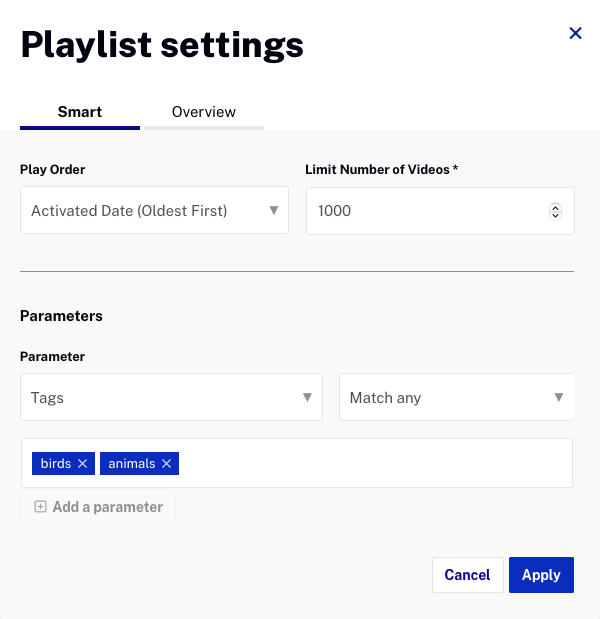
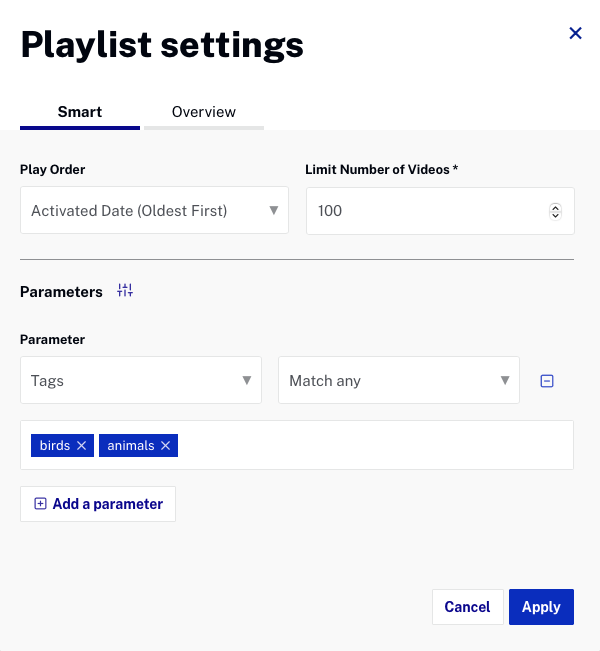
updates

diff --git a/_site/media/creating-and-managing-playlists2.html b/_site/media/creating-and-managing-playlists2.html
@@ -1308,27 +1308,34 @@ function doGTranslate(lang_pair) {if(lang_pair.value)lang_pair=lang_pair.value;i
       </li>
       <li><strong>Limit Number of Videos</strong> - Enter the maximum number of videos that should be in the playlist (default is 100)</li>
     </ul>
-      <h3>Smart playlist parameters</h3>
-      <p>The <strong>Parameters</strong> section is used to define which videos will appear in the playlist. The following parameters are supported.</p>
+    <h3>Smart playlist parameters</h3>
+    <p>The <strong>Parameters</strong> section is used to define which videos will appear in the playlist. The following parameters are supported.</p>
+    <ul>
+      <li><strong>Tags</strong> - Video tags are used to define the videos that will appear in the playlist. Enter one or more tags (separated by commas). The <strong>Tags</strong> dropdown provides these options:
         <ul>
-          <li><strong>Tags</strong> - Video tags are used to define the videos that will appear in the playlist. Enter one or more tags (separated by commas). The <strong>Tags</strong> dropdown provides these options:
-            <ul>
-              <li><strong>Match any</strong> - Include videos that have one or more of the tags listed</li>
-              <li><strong>Match all</strong> - Require that all the videos in the playlist have all the tags that are listed</li>
-            </ul>
-          </li>
-            <li><strong>Name</strong> - The video name is used to define the videos that will appear in the playlist</li>
-            <li><strong>Description</strong> - The video short and long description are used to define the videos that will appear in the playlist</li>
-            <li><strong>Custom field </strong> - The video custom fields are used to define the videos that will appear in the playlist.
- Select a custom field from the dropdown list.            </li>
+          <li><strong>Match any</strong> - Include videos that have one or more of the tags listed</li>
+          <li><strong>Match all</strong> - Require that all the videos in the playlist have all the tags that are listed</li>
+        </ul>
+      </li>
+      <li><strong>Name</strong> - The video name is used to define the videos that will appear in the playlist. Enter a name to search for.</li>
+      <li><strong>Description</strong> - The video short and long description are used to define the videos that will appear in the playlist. Enter a description to search for.</li>
+      <li><strong>Custom field </strong> - The video custom fields are used to define the videos that will appear in the playlist.
+        Select a custom field from the dropdown list and then select/enter a custom field value.</li>
     </ul>
-      <p>The <strong>Name</strong>, <strong>Description</strong> and <strong>Custom field</strong> options support these options:</p>
-      <ul>
-                <li><strong>Text to include </strong>- Include videos that have the name in the short or long description fields</li>
-                <li><strong>Text to exclude </strong>- Exclude videos that have the name in the short or long description fields</li>
+    <p>The <strong>Name</strong>, <strong>Description</strong> and <strong>Custom field</strong> options support these options:</p>
+    <ul>
+      <li><strong>Text to include </strong>- Include videos that have the name in the short or long description fields</li>
+      <li><strong>Text to exclude </strong>- Exclude videos that have the name in the short or long description fields</li>
     </ul>
-            <figure class="bcls-figure"><img class="bcls-image--no-border" alt="" src="/assets/images/media/node15152-new-smart-playlist1.png" /></figure>
-            <p>Click <strong>Apply</strong> to save the changes. </p>
+    <figure class="bcls-figure"><img class="bcls-image--no-border" alt="" src="/assets/images/media/node15152-new-smart-playlist1.png" /></figure>
+    <h3>Using multiple parameters</h3>
+    <p>Multiple parameters can be entered by clicking <strong>Add a parameter</strong> and then entering an additional parameter. By default, multiple parameters will be evaluated using an <strong>OR</strong> operation. To change how multiple parameters are evaluated, click the selector icon (<img class="bcls-image--no-border" alt="" src="/assets/images/media/node15152-icon-parameters.png" />) next to the <strong>Parameters</strong> heading.</p>
+    <p>
+      <figure class="bcls-figure"><img class="bcls-image--no-border" alt="" src="/assets/images/media/node15152-combine-parameters.png" /></figure>
+    </p>
+    <p>In the following example, all videos that are tagged <strong>birds</strong> or <strong>animals</strong> or have a <strong>Subject</strong> custom field value of <strong>Animals</strong> will be added to the playlist.</p>
+    <figure class="bcls-figure"><img class="bcls-image--no-border" alt="" src="/assets/images/media/node15152-parameter-example.png" /></figure>
+    <p>Click <strong>Apply</strong> to save the changes. </p>
   </section>
   <section class="bcls-section">
     <h2 id="addmanual">Adding videos to a manual playlist</h2>

diff --git a/media/creating-and-managing-playlists2.html b/media/creating-and-managing-playlists2.html
@@ -99,27 +99,34 @@ layout: staging
       </li>
       <li><strong>Limit Number of Videos</strong> - Enter the maximum number of videos that should be in the playlist (default is 100)</li>
     </ul>
-      <h3>Smart playlist parameters</h3>
-      <p>The <strong>Parameters</strong> section is used to define which videos will appear in the playlist. The following parameters are supported.</p>
+    <h3>Smart playlist parameters</h3>
+    <p>The <strong>Parameters</strong> section is used to define which videos will appear in the playlist. The following parameters are supported.</p>
+    <ul>
+      <li><strong>Tags</strong> - Video tags are used to define the videos that will appear in the playlist. Enter one or more tags (separated by commas). The <strong>Tags</strong> dropdown provides these options:
         <ul>
-          <li><strong>Tags</strong> - Video tags are used to define the videos that will appear in the playlist. Enter one or more tags (separated by commas). The <strong>Tags</strong> dropdown provides these options:
-            <ul>
-              <li><strong>Match any</strong> - Include videos that have one or more of the tags listed</li>
-              <li><strong>Match all</strong> - Require that all the videos in the playlist have all the tags that are listed</li>
-            </ul>
-          </li>
-            <li><strong>Name</strong> - The video name is used to define the videos that will appear in the playlist</li>
-            <li><strong>Description</strong> - The video short and long description are used to define the videos that will appear in the playlist</li>
-            <li><strong>Custom field </strong> - The video custom fields are used to define the videos that will appear in the playlist.
- Select a custom field from the dropdown list.            </li>
+          <li><strong>Match any</strong> - Include videos that have one or more of the tags listed</li>
+          <li><strong>Match all</strong> - Require that all the videos in the playlist have all the tags that are listed</li>
+        </ul>
+      </li>
+      <li><strong>Name</strong> - The video name is used to define the videos that will appear in the playlist. Enter a name to search for.</li>
+      <li><strong>Description</strong> - The video short and long description are used to define the videos that will appear in the playlist. Enter a description to search for.</li>
+      <li><strong>Custom field </strong> - The video custom fields are used to define the videos that will appear in the playlist.
+        Select a custom field from the dropdown list and then select/enter a custom field value.</li>
     </ul>
-      <p>The <strong>Name</strong>, <strong>Description</strong> and <strong>Custom field</strong> options support these options:</p>
-      <ul>
-                <li><strong>Text to include </strong>- Include videos that have the name in the short or long description fields</li>
-                <li><strong>Text to exclude </strong>- Exclude videos that have the name in the short or long description fields</li>
+    <p>The <strong>Name</strong>, <strong>Description</strong> and <strong>Custom field</strong> options support these options:</p>
+    <ul>
+      <li><strong>Text to include </strong>- Include videos that have the name in the short or long description fields</li>
+      <li><strong>Text to exclude </strong>- Exclude videos that have the name in the short or long description fields</li>
     </ul>
-            <figure class="bcls-figure"><img class="bcls-image--no-border" alt="" src="/assets/images/media/node15152-new-smart-playlist1.png" /></figure>
-            <p>Click <strong>Apply</strong> to save the changes. </p>
+    <figure class="bcls-figure"><img class="bcls-image--no-border" alt="" src="/assets/images/media/node15152-new-smart-playlist1.png" /></figure>
+    <h3>Using multiple parameters</h3>
+    <p>Multiple parameters can be entered by clicking <strong>Add a parameter</strong> and then entering an additional parameter. By default, multiple parameters will be evaluated using an <strong>OR</strong> operation. To change how multiple parameters are evaluated, click the selector icon (<img class="bcls-image--no-border" alt="" src="/assets/images/media/node15152-icon-parameters.png" />) next to the <strong>Parameters</strong> heading.</p>
+    <p>
+      <figure class="bcls-figure"><img class="bcls-image--no-border" alt="" src="/assets/images/media/node15152-combine-parameters.png" /></figure>
+    </p>
+    <p>In the following example, all videos that are tagged <strong>birds</strong> or <strong>animals</strong> or have a <strong>Subject</strong> custom field value of <strong>Animals</strong> will be added to the playlist.</p>
+    <figure class="bcls-figure"><img class="bcls-image--no-border" alt="" src="/assets/images/media/node15152-parameter-example.png" /></figure>
+    <p>Click <strong>Apply</strong> to save the changes. </p>
   </section>
   <section class="bcls-section">
     <h2 id="addmanual">Adding videos to a manual playlist</h2>
